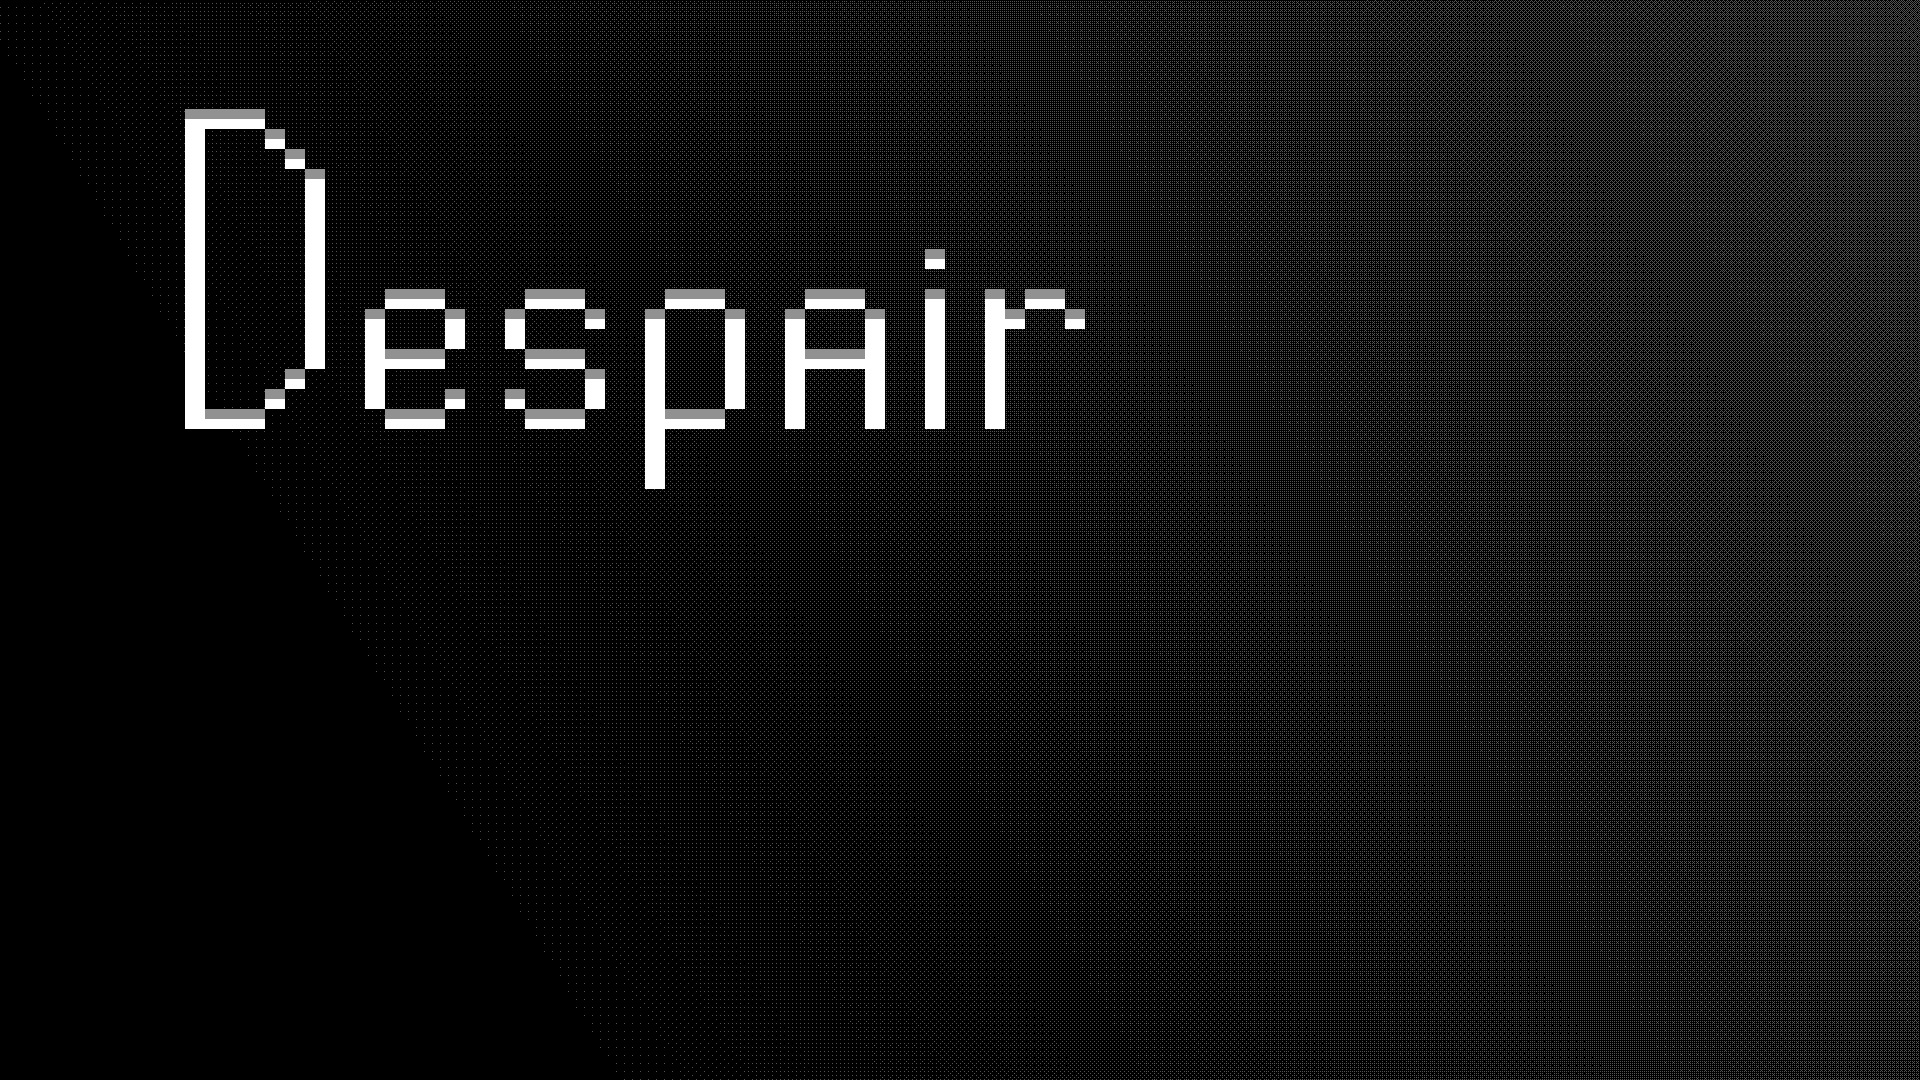
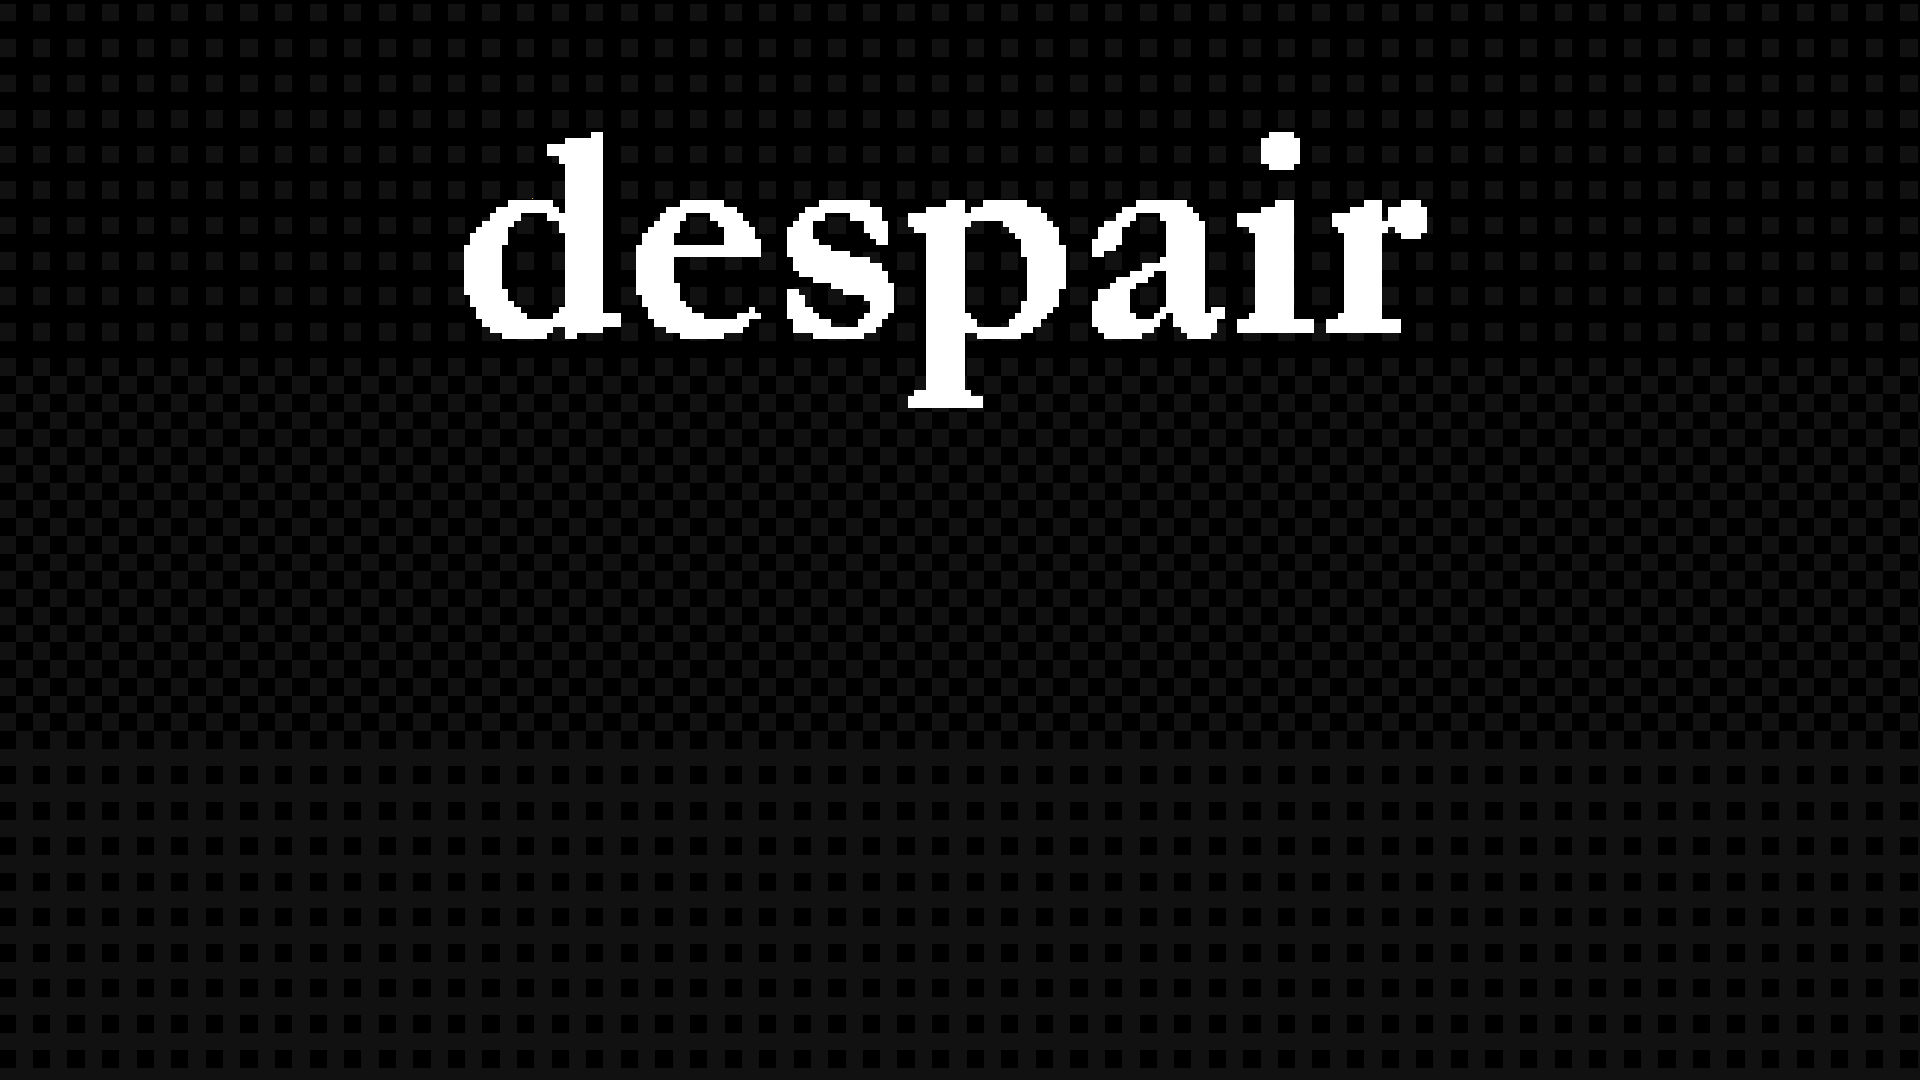
Some button fixes. New background

Changed region(s): [[0.0938, 0.0, 1.0, 1.0]]

diff --git a/src/GUI/PauseMenu.cpp b/src/GUI/PauseMenu.cpp
@@ -1,92 +1,86 @@
 #include "GUI/PauseMenu.h"
 
-PauseMenu::PauseMenu(sf::RenderWindow& window, sf::Font& font)
-	: font(font)
-{
-	//INIT BACKGROUND
-	this->background.setSize(
-		sf::Vector2f(
-			static_cast<float>(window.getSize().x), 
-			static_cast<float>(window.getSize().y)
-		)
-	);
-	this->background.setFillColor(sf::Color(20, 20, 20, 100));
+PauseMenu::PauseMenu(sf::RenderWindow &window, sf::Font &font)
+        : font(font) {
+    //INIT BACKGROUND
+    this->background.setSize(
+            sf::Vector2f(
+                    static_cast<float>(window.getSize().x),
+                    static_cast<float>(window.getSize().y)
+            )
+    );
+    this->background.setFillColor(sf::Color(20, 20, 20, 100));
 
 
-	//INIT CONTAINER
-	this->container.setSize(
-		sf::Vector2f(
-			static_cast<float>(window.getSize().x) / 4.f, 
-			static_cast<float>(window.getSize().y) - 60.f
-		)
-	);
-	this->container.setFillColor(sf::Color(20, 20, 20, 200));
-	this->container.setPosition(
-		static_cast<float>(window.getSize().x) / 2.f - this->container.getSize().x / 2.f,
-		30.f
-	);
+    //INIT CONTAINER
+    this->container.setSize(
+            sf::Vector2f(
+                    static_cast<float>(window.getSize().x) / 4.f,
+                    static_cast<float>(window.getSize().y) - 60.f
+            )
+    );
+    this->container.setFillColor(sf::Color(20, 20, 20, 200));
+    this->container.setPosition(
+            static_cast<float>(window.getSize().x) / 2.f - this->container.getSize().x / 2.f,
+            30.f
+    );
 
-	//init text
-	this->menuText.setFont(font);
-	this->menuText.setFillColor(sf::Color(255, 255, 255, 200));
-	this->menuText.setCharacterSize(60);
-	this->menuText.setString("PAUSED");
-	this->menuText.setPosition(this->container.getPosition().x + this->container.getSize().x / 2.f - this->menuText.getGlobalBounds().width / 2.f,
-		this->container.getPosition().y + 40.f);
+    //init text
+    this->menuText.setFont(font);
+    this->menuText.setFillColor(sf::Color(255, 255, 255, 200));
+    this->menuText.setCharacterSize(60);
+    this->menuText.setString("PAUSED");
+    this->menuText.setPosition(this->container.getPosition().x + this->container.getSize().x / 2.f -
+                               this->menuText.getGlobalBounds().width / 2.f,
+                               this->container.getPosition().y + 40.f);
 
 }
 
-PauseMenu::~PauseMenu()
-{
-	auto it = this->buttons.begin();
-	for (it = this->buttons.begin(); it != this->buttons.end(); ++it)
-	{
-		delete it->second;
-	}
+PauseMenu::~PauseMenu() {
+    auto it = this->buttons.begin();
+    for (it = this->buttons.begin(); it != this->buttons.end(); ++it) {
+        delete it->second;
+    }
 }
 
-std::map<std::string, Button*>& PauseMenu::getButtons()
-{
-	return this->buttons;
+std::map<std::string, Button *> &PauseMenu::getButtons() {
+    return this->buttons;
 }
 
 //Functions
 
-
-const bool PauseMenu::isButtonPressed(const std::string key) 
-{
-	return this->buttons[key]->isPressed();
+const bool PauseMenu::isButtonPressed(const std::string key) {
+    return this->buttons[key]->isPressed();
 }
 
-void PauseMenu::addButton(const std::string key, float y, const std::string text)
-{
-	float width = 250.f;
-	float height = 50.f;
-	float x = this->container.getPosition().x + this->container.getSize().x / 2.f - width / 2.f;
+void PauseMenu::addButton(const std::string key, float y, const std::string text) {
+    float width = 250.f;
+    float height = 40.f;
+    float x = this->container.getPosition().x + this->container.getSize().x / 2.f - width / 2.f;
 
-	this->buttons[key] = new Button(
-		x, y, width, height,
-		&this->font, text, 50,
-		sf::Color(70, 70, 70, 200), sf::Color(250, 250, 250, 250), sf::Color(20, 20, 20, 50),
-		sf::Color(70, 70, 70, 0), sf::Color(150, 150, 150, 0), sf::Color(20, 20, 20, 0));
+    this->buttons[key] = new Button(
+        x, y,30.f, width, height,
+            &this->font, text, 50,
+            sf::Color(70, 70, 70, 200),
+            sf::Color(250, 250, 250, 250),
+            sf::Color(20, 20, 20, 50),
+            sf::Color(70, 70, 70, 0),
+            sf::Color(150, 150, 150, 0),
+            sf::Color(20, 20, 20, 0));
 
 }
 
-void PauseMenu::update(const sf::Vector2f& mousePos)
-{
-	for (auto& i : this->buttons)
-	{
-		i.second->update(mousePos);
-	}
+void PauseMenu::update(const sf::Vector2f &mousePos) {
+    for (auto &i: this->buttons) {
+        i.second->update(mousePos);
+    }
 }
 
-void PauseMenu::render(sf::RenderTarget& target)
-{
-	target.draw(this->background);
-	target.draw(this->container);
-	for (auto& i : this->buttons)
-	{
-		i.second->render(target);
-	}
-	target.draw(this->menuText);
+void PauseMenu::render(sf::RenderTarget &target) {
+    target.draw(this->background);
+    target.draw(this->container);
+    for (auto &i: this->buttons) {
+        i.second->render(target);
+    }
+    target.draw(this->menuText);
 }

diff --git a/src/Entities/Player.cpp b/src/Entities/Player.cpp
@@ -5,7 +5,7 @@ void Player::initVariables()
 {
 	this->attacking = false;
 	this->attackDirection = true;
-	this->idleTimer = 0.f; // ������ �����������
+	this->idleTimer = 0.f;
 	this->idleSpecialAnimation = false;
 }
 
@@ -25,10 +25,22 @@ Player::Player(float x, float y, sf::Texture& texture_sheet)
 	this->createMovementComponent(300.f, 15.f, 5.f);
 	this->createAnimationComponent(texture_sheet);
 
-	this->animationComponent->addAnimation("IDLE", 11.f, 0, 0, 3, 0, 576, 384);
-	this->animationComponent->addAnimation("WALK", 6.f, 0, 0, 3, 0, 576, 384);
-	this->animationComponent->addAnimation("IDLE_JUMP", 9.f, 1, 1, 5, 1, 576, 384);
-	this->animationComponent->addAnimation("ATTACK", 6.f, 0, 2, 12, 2, 576, 384);
+	this->animationComponent->addAnimation("IDLE", 11.f,
+                                           0, 0,
+                                           3, 0,
+                                           576, 384);
+	this->animationComponent->addAnimation("WALK", 3.f,
+                                           0, 0,
+                                           3, 0,
+                                           576, 384);
+	this->animationComponent->addAnimation("IDLE_JUMP", 9.f,
+                                           1, 1,
+                                           5, 1,
+                                           576, 384);
+	this->animationComponent->addAnimation("ATTACK", 6.f,
+                                           0, 2,
+                                           12, 2,
+                                           576, 384);
 }
 
 Player::~Player()
@@ -73,33 +85,28 @@ void Player::updateAnimations(const float& dt)
 		}
 	}
 
-	// ���� �������� ������������
+
 	if (this->movementComponent->getState(IDLE))
 	{
-		// ����������� ������ �����������
+
 		this->idleTimer += dt;
 
-		// ���� ������ ������ ������ � �������� IDLE_JUMP ��� �� ����������������
 		if (this->idleTimer >= 10.f && !this->idleSpecialAnimation)
 		{
-			// ������������� �������� IDLE_JUMP
 			if (this->animationComponent->play("IDLE_JUMP", dt))
 			{
-				// ���� �������� ���������, ���������� ���� � ������
 				this->idleSpecialAnimation = false;
 				this->idleTimer = 0.f;
 			}
 		}
 		else if (this->idleTimer < 10.f)
 		{
-			// ������������� ������� �������� IDLE
 			this->animationComponent->play("IDLE", dt);
 		}
 	}
 	else
 	{
 
-		// ��������� �������� ��������
 		if (this->movementComponent->getState(MOVING_LEFT) && !this->attacking)
 		{
 			if (this->sprite.getScale().x < 0.f)
@@ -108,7 +115,9 @@ void Player::updateAnimations(const float& dt)
 				this->sprite.setScale(1.f, 1.f);
 			}
 			this->idleTimer = 0.f;
-			this->animationComponent->play("WALK", dt, this->movementComponent->getVelocity().x, this->movementComponent->getMaxVelocity());
+			this->animationComponent->play("WALK", dt,
+                                           this->movementComponent->getVelocity().x,
+                                           this->movementComponent->getMaxVelocity());
 		}
 		else if (this->movementComponent->getState(MOVING_RIGHT) && !this->attacking)
 		{
@@ -118,12 +127,16 @@ void Player::updateAnimations(const float& dt)
 				this->sprite.setScale(-1.f, 1.f);
 			}
 			this->idleTimer = 0.f;
-			this->animationComponent->play("WALK", dt, this->movementComponent->getVelocity().x, this->movementComponent->getMaxVelocity());
+			this->animationComponent->play("WALK", dt,
+                                           this->movementComponent->getVelocity().x,
+                                           this->movementComponent->getMaxVelocity());
 		}
 		else if (this->movementComponent->getState(MOVING_UP) || this->movementComponent->getState(MOVING_DOWN))
 		{
 			this->idleTimer = 0.f;
-			this->animationComponent->play("WALK", dt, this->movementComponent->getVelocity().y, this->movementComponent->getMaxVelocity());
+			this->animationComponent->play("WALK", dt,
+                                           this->movementComponent->getVelocity().y,
+                                           this->movementComponent->getMaxVelocity());
 		}
 	}
 }

diff --git a/src/States/MainMenuState.cpp b/src/States/MainMenuState.cpp
@@ -26,7 +26,7 @@ void MainMenuState::initBackground()
 
 void MainMenuState::initFonts()
 {
-	if (!this->font.loadFromFile("assets/fonts/MavenPro-Regular.ttf"))
+	if (!this->font.loadFromFile("assets/fonts/ByteBounce.ttf"))
 	{
 		throw("ERROR::MAIN_MENU_STATE::COULD_NOT_LOAD_FONT");
 	}
@@ -53,29 +53,47 @@ void MainMenuState::initKeybinds()
 
 void MainMenuState::initButtons()
 {
+    float x = this->background.getPosition().x + this->background.getSize().x / 2.f - 250 / 2.f;
+
 	this->buttons["GAME_STATE"] = new Button(
-		184.f, 580.f, 250.f, 50.f,
-		&this->font, "New Game", 50,
-		sf::Color(70, 70, 70, 200), sf::Color(250, 250, 250, 250), sf::Color(20, 20, 20, 50),
-		sf::Color(70, 70, 70, 0), sf::Color(150, 150, 150, 0), sf::Color(20, 20, 20, 0));
+		x, 600.f,85.f, 250.f, 50.f,
+		&this->font, "New Game", 125.f,
+		sf::Color(70, 70, 70, 200),
+        sf::Color(250, 250, 250, 250),
+        sf::Color(20, 20, 20, 50),
+		sf::Color(70, 70, 70, 0),
+        sf::Color(150, 150, 150, 0),
+        sf::Color(20, 20, 20, 0));
 
 	this->buttons["SETTINGS"] = new Button(
-		184.f, 690.f, 250.f, 50.f,
-		&this->font, "Settings", 50,
-		sf::Color(70, 70, 70, 200), sf::Color(250, 250, 250, 250), sf::Color(20, 20, 20, 50),
-		sf::Color(70, 70, 70, 0), sf::Color(150, 150, 150, 0), sf::Color(20, 20, 20, 0));
+		x, 740.f,60.f, 250.f, 50.f,
+		&this->font, "Settings", 80.f,
+		sf::Color(70, 70, 70, 200),
+        sf::Color(250, 250, 250, 250),
+        sf::Color(20, 20, 20, 50),
+		sf::Color(70, 70, 70, 0),
+        sf::Color(150, 150, 150, 0),
+        sf::Color(20, 20, 20, 0));
 
 	this->buttons["EDITOR_STATE"] = new Button(
-		184.f, 780.f, 250.f, 50.f,
-		&this->font, "Editor", 50,
-		sf::Color(70, 70, 70, 200), sf::Color(250, 250, 250, 250), sf::Color(20, 20, 20, 50),
-		sf::Color(70, 70, 70, 0), sf::Color(150, 150, 150, 0), sf::Color(20, 20, 20, 0));
+		x, 830.f,60.f, 250.f, 50.f,
+		&this->font, "Editor", 80.f,
+		sf::Color(70, 70, 70, 200),
+        sf::Color(250, 250, 250, 250),
+        sf::Color(20, 20, 20, 50),
+		sf::Color(70, 70, 70, 0),
+        sf::Color(150, 150, 150, 0),
+        sf::Color(20, 20, 20, 0));
 
 	this->buttons["EXIT_STATE"] = new Button(
-		184.f, 870.f, 250.f, 50.f,
-		&this->font, "Quit", 50,
-		sf::Color(70, 70, 70, 200), sf::Color(250, 250, 250, 250), sf::Color(20, 20, 20, 50),
-		sf::Color(70, 70, 70, 0), sf::Color(150, 150, 150, 0), sf::Color(20, 20, 20, 0));
+		x, 920.f,60.f, 250.f, 50.f,
+		&this->font, "Quit", 80.f,
+		sf::Color(70, 70, 70, 200),
+        sf::Color(250, 250, 250, 250),
+        sf::Color(20, 20, 20, 50),
+		sf::Color(70, 70, 70, 0),
+        sf::Color(150, 150, 150, 0),
+        sf::Color(20, 20, 20, 0));
 }
 
 

diff --git a/src/GUI/Button.cpp b/src/GUI/Button.cpp
@@ -2,7 +2,7 @@
 
 
 
-Button::Button(float x, float y, float width, float height,
+Button::Button(float x, float y, float y_h, float width, float height,
 	sf::Font* font, std::string text, unsigned character_size,
 	sf::Color text_idle_color, sf::Color text_hover_color, sf::Color text_active_color,
 	sf::Color idle_color, sf::Color hover_color, sf::Color active_color)
@@ -21,7 +21,7 @@ Button::Button(float x, float y, float width, float height,
 	this->text.setCharacterSize(character_size);
 	this->text.setPosition(
 		this->shape.getPosition().x + (this->shape.getGlobalBounds().width / 2.f) - this->text.getGlobalBounds().width /2.f,
-		this->shape.getPosition().y + (this->shape.getGlobalBounds().height / 2.f) - this->text.getGlobalBounds().height / 1.3f
+		this->shape.getPosition().y + (this->shape.getGlobalBounds().height / 2.f) - y_h
 	);
 
 	this->textIdleColor = text_idle_color;

diff --git a/headers/GUI/Button.h b/headers/GUI/Button.h
@@ -34,7 +34,7 @@ private:
 
 
 public:
-	Button(float x, float y, float width, float height,
+	Button(float x, float y,float y_h, float width, float height,
 		sf::Font* font, std::string text, unsigned character_size,
 		sf::Color text_idle_color, sf::Color text_hover_color, sf::Color text_active_color,
 		sf::Color idle_color, sf::Color hover_color, sf::Color active_color);

diff --git a/src/States/EditorState.cpp b/src/States/EditorState.cpp
@@ -13,7 +13,7 @@ void EditorState::initBackground()
 
 void EditorState::initFonts()
 {
-	if (!this->font.loadFromFile("assets/fonts/MavenPro-Regular.ttf"))
+	if (!this->font.loadFromFile("assets/fonts/ByteBounce.ttf"))
 	{
 		throw("ERROR::EDITOR_STATE::COULD_NOT_LOAD_FONT");
 	}

diff --git a/src/States/GameState.cpp b/src/States/GameState.cpp
@@ -22,7 +22,7 @@ void GameState::initKeybinds()
 
 void GameState::initFonts()
 {
-	if (!this->font.loadFromFile("assets/fonts/MavenPro-Regular.ttf"))
+	if (!this->font.loadFromFile("assets/fonts/ByteBounce.ttf"))
 	{
 		throw("ERROR::MAIN_MENU_STATE::COULD_NOT_LOAD_FONT");
 	}
